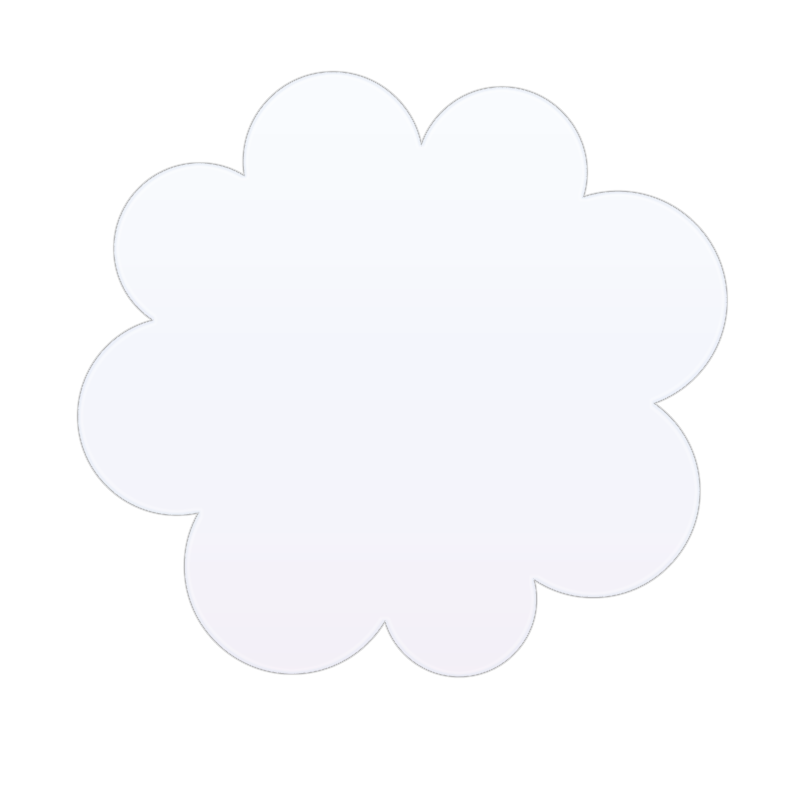
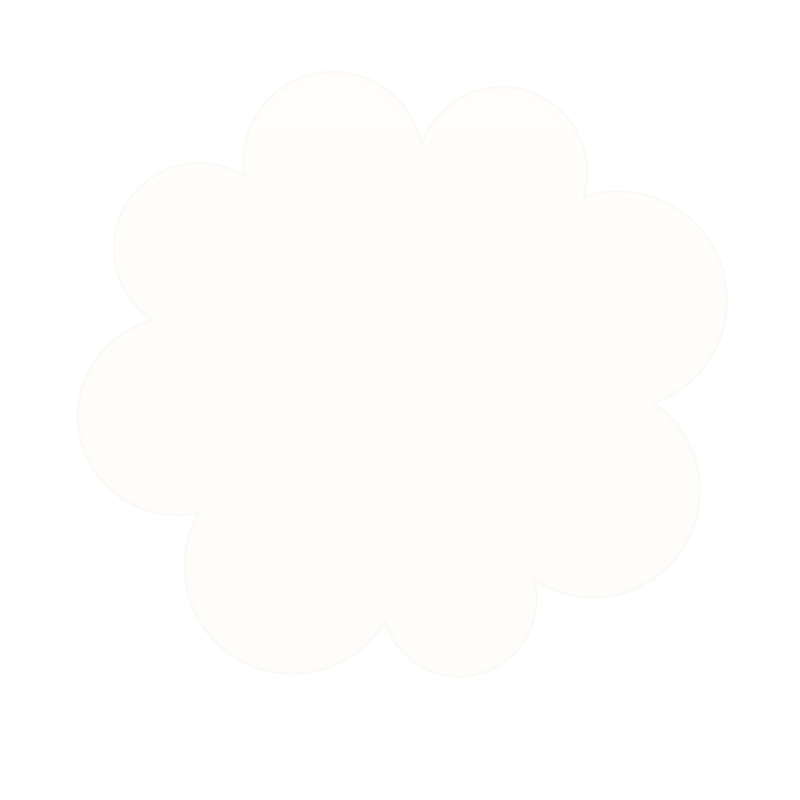
feat: update award cloud images and refine styles for improved visual consistency

diff --git a/styles/buttons.css b/styles/buttons.css
@@ -219,11 +219,6 @@
     pointer-events: none;
     opacity: var(--cloud-opacity, 1);
     filter:
-        saturate(var(--cloud-saturation, 0.72))
-        sepia(var(--cloud-warmth, 0))
-        hue-rotate(var(--cloud-hue, 0deg))
-        brightness(var(--cloud-brightness, 1.09))
-        contrast(var(--cloud-contrast, 0.68))
         drop-shadow(0 16px 24px rgba(116, 136, 170, 0.06))
         drop-shadow(0 4px 8px rgba(55, 70, 96, 0.045));
     animation: cloud-edge-breathe var(--cloud-breathe-duration, 8.6s) ease-in-out infinite;
@@ -242,9 +237,6 @@
     background-image: url('../assets/award-clouds/cloud-a.png');
     --cloud-pos-x: 47.94%;
     --cloud-pos-y: 33.12%;
-    --cloud-brightness: 1.08;
-    --cloud-contrast: 0.66;
-    --cloud-hue: -3deg;
     --cloud-breathe-duration: 8.4s;
 }
 
@@ -252,8 +244,6 @@
     background-image: url('../assets/award-clouds/cloud-b.png');
     --cloud-pos-x: 49.69%;
     --cloud-pos-y: 35.25%;
-    --cloud-brightness: 1.1;
-    --cloud-contrast: 0.64;
     --cloud-breathe-duration: 9.1s;
 }
 
@@ -261,10 +251,6 @@
     background-image: url('../assets/award-clouds/cloud-c.png');
     --cloud-pos-x: 48.31%;
     --cloud-pos-y: 40.19%;
-    --cloud-brightness: 1.08;
-    --cloud-contrast: 0.68;
-    --cloud-warmth: 0.015;
-    --cloud-hue: 4deg;
     --cloud-breathe-duration: 8.8s;
 }
 
@@ -272,10 +258,6 @@
     background-image: url('../assets/award-clouds/cloud-d.png');
     --cloud-pos-x: 51.62%;
     --cloud-pos-y: 30.38%;
-    --cloud-brightness: 1.1;
-    --cloud-contrast: 0.65;
-    --cloud-saturation: 0.62;
-    --cloud-hue: -6deg;
     --cloud-breathe-duration: 9.5s;
 }
 
@@ -283,9 +265,6 @@
     background-image: url('../assets/award-clouds/cloud-e.png');
     --cloud-pos-x: 48.56%;
     --cloud-pos-y: 34.69%;
-    --cloud-brightness: 1.08;
-    --cloud-contrast: 0.69;
-    --cloud-warmth: 0.012;
     --cloud-breathe-duration: 8.2s;
 }
 
@@ -293,9 +272,6 @@
     background-image: url('../assets/award-clouds/cloud-f.png');
     --cloud-pos-x: 48.81%;
     --cloud-pos-y: 34.88%;
-    --cloud-brightness: 1.1;
-    --cloud-contrast: 0.63;
-    --cloud-saturation: 0.6;
     --cloud-breathe-duration: 9.3s;
 }
 
@@ -303,9 +279,6 @@
     background-image: url('../assets/award-clouds/cloud-g.png');
     --cloud-pos-x: 52.81%;
     --cloud-pos-y: 31.81%;
-    --cloud-brightness: 1.07;
-    --cloud-contrast: 0.69;
-    --cloud-hue: 5deg;
     --cloud-opacity: 0.98;
     --cloud-breathe-duration: 8.9s;
 }
@@ -314,20 +287,12 @@
     background-image: url('../assets/award-clouds/cloud-h.png');
     --cloud-pos-x: 50.69%;
     --cloud-pos-y: 34.06%;
-    --cloud-brightness: 1.09;
-    --cloud-contrast: 0.65;
-    --cloud-hue: -2deg;
     --cloud-breathe-duration: 9.7s;
 }
 
 /* Reigning Prodigy: amber glow on the svg cloud */
 .award-reigning-prodigy .cloud-bg-svg {
     filter:
-        saturate(var(--cloud-saturation, 0.72))
-        sepia(var(--cloud-warmth, 0))
-        hue-rotate(var(--cloud-hue, 0deg))
-        brightness(var(--cloud-brightness, 1.09))
-        contrast(var(--cloud-contrast, 0.68))
         drop-shadow(0 0 16px rgba(251, 191, 36, 0.46))
         drop-shadow(0 16px 24px rgba(116, 136, 170, 0.06))
         drop-shadow(0 4px 8px rgba(55, 70, 96, 0.045));
@@ -343,22 +308,12 @@
 @keyframes hero-cloud-glow {
     0%, 100% {
         filter:
-            saturate(var(--cloud-saturation, 0.72))
-            sepia(var(--cloud-warmth, 0))
-            hue-rotate(var(--cloud-hue, 0deg))
-            brightness(var(--cloud-brightness, 1.09))
-            contrast(var(--cloud-contrast, 0.68))
             drop-shadow(0 0 13px rgba(34, 197, 94, 0.42))
             drop-shadow(0 16px 24px rgba(116, 136, 170, 0.06))
             drop-shadow(0 4px 8px rgba(55, 70, 96, 0.045));
     }
     50% {
         filter:
-            saturate(var(--cloud-saturation, 0.72))
-            sepia(var(--cloud-warmth, 0))
-            hue-rotate(var(--cloud-hue, 0deg))
-            brightness(var(--cloud-brightness, 1.09))
-            contrast(var(--cloud-contrast, 0.68))
             drop-shadow(0 0 24px rgba(34, 197, 94, 0.7))
             drop-shadow(0 0 42px rgba(34, 197, 94, 0.2))
             drop-shadow(0 16px 24px rgba(116, 136, 170, 0.06))
